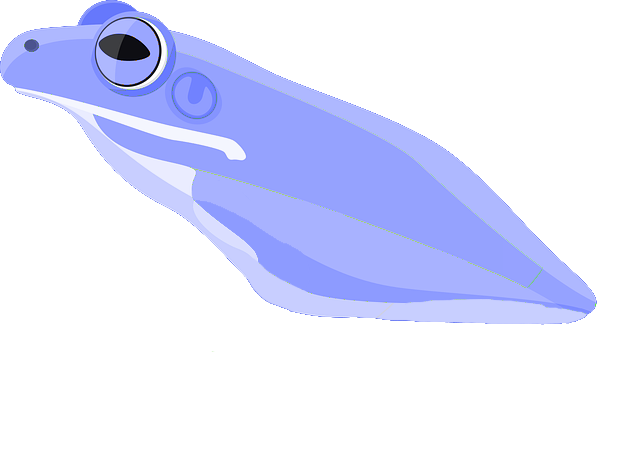
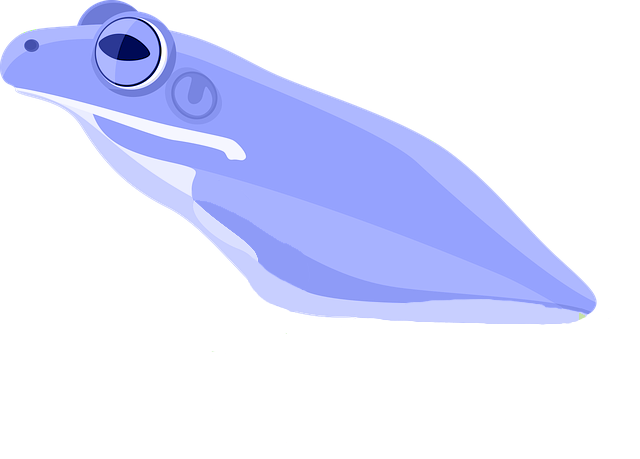
- Finish part picker and image creation

Changed region(s): [[0.125, 0.0, 0.3438, 0.2745], [0.0312, 0.061, 0.0625, 0.122], [0.9062, 0.671, 0.9375, 0.7015]]

diff --git a/Module-1/Chapter-1/Website-1/fp_form.html b/Module-1/Chapter-1/Website-1/fp_form.html
@@ -24,9 +24,9 @@
     <tr>
       <td>Frog Color</td>
       <td><select name="frogcolor">
-        <option value="colorgreen">Green</option>
-        <option value="colorred">Red</option>
-        <option value="colorblue">Blue</option>
+        <option value="green">Green</option>
+        <option value="red">Red</option>
+        <option value="blue">Blue</option>
       </select>
     </td>
     </tr>

diff --git a/Module-1/Chapter-1/Website-1/fp_buildfrog.php b/Module-1/Chapter-1/Website-1/fp_buildfrog.php
@@ -1,6 +1,6 @@
 <?php
   // create short variable names
-  $frogclr = $_POST['frogcolor'];
+  $frogcolor = $_POST['frogcolor'];
   $frogarm = $_POST['frogarm'];
   $frogleg = $_POST['frogleg'];
 ?>
@@ -13,118 +13,8 @@
     <h1>Frog Parts</h1>
     <h2>Frog Created</h2> 
     <?php
-    /* 
-      display frog base
-      check arm
-      display arm
-      check leg
-      display leg
-      change color
-    */
-
     // display frog base
-    echo '<img src="fp_images.php?frogarm='.urlencode($frogarm).'&frogleg='.urlencode($frogleg).'" alt="Your frog" />';
- /*
-    switch($frogarm) {
-      case "armfrog" :
-        echo '<img src="resources/armfrog.png"';
-        break;
-      case "armcrab" :
-        echo '<img src="resources/armcrab.png"';
-        break;
-      case "armdog" :
-        echo '<img src="resources/armdog.png"';
-        break;
-    } 
-
-    // calculate total number of items selected
-      $totalqty = 0;
-      $totalqty = $tireqty + $oilqty + $sparkqty;
-
-      // warn user of no items selected
-      // display number of items selected
-      if($totalqty == 0) {
-        echo '<p style="color:red">';
-        echo "You did not order anything on the previous page!<br />";
-        echo '</p>';
-        exit;
-      } else {
-        echo "<p>Order processed at ".date('H:i, jS F Y')."</p>";
-        echo '<p>Your order is as follows: </p>';
-        if($tireqty > 0)
-          echo htmlspecialchars($tireqty).' tires<br />';
-        if($oilqty > 0)
-          echo htmlspecialchars($oilqty).' bottles of oil<br />';
-        if($sparkqty > 0)
-          echo htmlspecialchars($sparkqty).' spark plugs<br />';
-      }
-
-      // determine tire discount
-      if($tireqty < 10) {
-        $discount = 0;
-      } else if(($tireqty >= 10) && ($tireqty <= 49)) {
-        $discount = 5;
-      } else if(($tireqty >= 50) && ($tireqty <= 99)) {
-        $discount = 10;
-      } else if($tireqty >= 100) {
-        $discount = 15;
-      }
-
-      // determine customer status
-      switch($find) {
-        case "a" :
-          echo "<p>Regular customer.</p>";
-          break;
-        case "b" :
-          echo "<p>Customer referred by TV advert.</p>";
-          break;
-        case "c" :
-          echo "<p>Customer referred by phone directory.</p>";
-          break;
-        case "d" :
-          echo "<p>Customer referred by word of mouth.</p>";
-          break;
-        default :
-          echo "<p>We do not know how this customer found us.</p>";
-          break;
-      }
-
-      // display total number of items ordered
-      echo "<p>Items ordered: ".$totalqty."<br />";
-      $totalamount = 0.00;
-
-      // prices for each item
-      define('TIREPRICE', 100);
-      define('OILPRICE', 10);
-      define('SPARKPRICE', 4);
-
-      // determine tire price before discount
-      $tiretotal = $tireqty * TIREPRICE;
-
-      // apply tire discount if applicable
-      if($discount > 0) {
-        $tiretotal -= $tiretotal * ($discount / 100);
-        echo "Tire discount: ".$discount."%<br />";
-      }
-
-      // calculate total amount
-      $totalamount = $tiretotal + $oilqty * OILPRICE + $sparkqty * SPARKPRICE;
-
-      // display total amount
-      echo "Subtotal: $".number_format($totalamount,2)."<br />";
-
-      // calculate and display total after tax
-      $taxrate = 0.10; // local sales tax is 10%
-      $totalamount = $totalamount * (1 + $taxrate);
-      echo "Total including tax: $".number_format($totalamount,2)."</p>";
-
-      // test isset and empty
-      /*
-      echo 'isset($tireqty): '.isset($tireqty).'<br />';
-      echo 'isset($nothere): '.isset($nothere).'<br />';
-      echo 'empty($tireqty): '.empty($tireqty).'<br />';
-      echo 'empty($nothere): '.empty($nothere).'<br />';
-      */
+    echo '<img src="fp_images.php?frogcolor='.urlencode($frogcolor).'&frogarm='.urlencode($frogarm).'&frogleg='.urlencode($frogleg).'" alt="Your frog" />';
     ?>
   </body>
 </html>

diff --git a/Module-1/Chapter-1/Website-1/fp_images.php b/Module-1/Chapter-1/Website-1/fp_images.php
@@ -2,21 +2,21 @@
     header('Content-Type: image/png');
 
     // retrieve variables
-    //$color = $_GET['frogcolor'];
+    $color = $_GET['frogcolor'];
     $arm = $_GET['frogarm'];
     $leg = $_GET['frogleg'];
 
-    $basefrog = imagecreatefrompng("resources/frogbasegreen.png");
+    $basefrog = imagecreatefrompng("resources/frogbase{$color}.png");
     imagesavealpha($basefrog, true);
 
     if($arm) {
-        $armimg = imagecreatefrompng("resources/{$arm}.png");
+        $armimg = imagecreatefrompng("resources/{$arm}{$color}.png");
         imagesavealpha($armimg, true);
         imagecopy($basefrog, $armimg, 0, 0, 0, 0, imagesx($armimg), imagesy($armimg));
     }
 
     if($leg) {
-        $legimg = imagecreatefrompng("resources/{$leg}.png");
+        $legimg = imagecreatefrompng("resources/{$leg}{$color}.png");
         imagesavealpha($legimg, true);
         imagecopy($basefrog, $legimg, 0, 0, 0, 0, imagesx($legimg), imagesy($legimg));
     }
